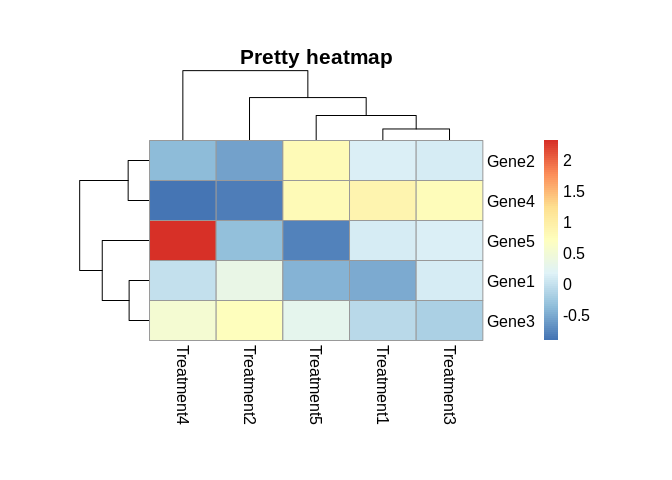
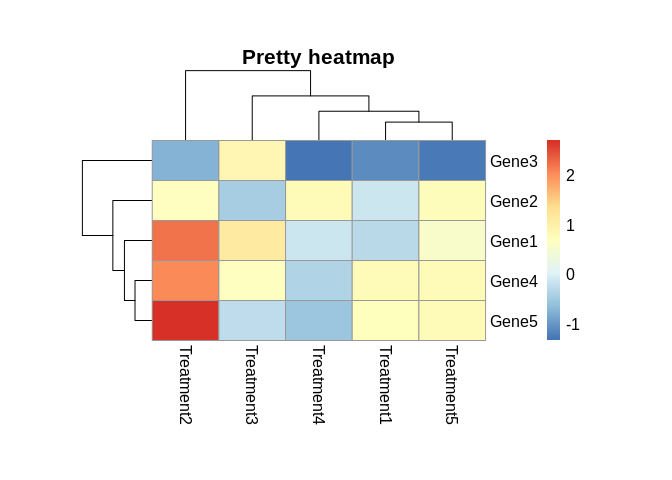
update titles for training listings

diff --git a/R/heatmaps/heatmaps_intermediate.md b/R/heatmaps/heatmaps_intermediate.md
@@ -1,6 +1,6 @@
-Heatmaps in R for intermediate users
+R data visualisation with RStudio: heatmaps
 ================
-2018-09-06
+2018-09-28
 
 > This document is edited as an R markdown file, and regularly exported as a GitHub document. The source code is [here](https://gitlab.com/stragu/CDS/blob/master/R/heatmaps_intermediate.Rmd) The published printer-friendly version is [here](https://gitlab.com/stragu/CDS/blob/master/R/heatmaps/heatmaps_intermediate.md)
 
@@ -140,9 +140,8 @@ For example, in the palette function `cm.colors(n)`, n is the number of levels (
 
 ``` r
 heatmap(mtcars_matrix,
-        col = cm.colors(15),
         scale = "column",
-        margins = c(8, 8))
+        col = cm.colors(n = 15))
 ```
 
 ![](heatmaps_intermediate_files/figure-markdown_github/unnamed-chunk-8-1.png)
@@ -155,8 +154,8 @@ Dendrograms don't really make sense for this dataset. `Rowv` and `Colv` can be s
 
 ``` r
 heatmap(mtcars_matrix,
-        col = cm.colors(100),
         scale = "column",
+        col = cm.colors(100),
         Rowv = NA,
         Colv = NA)
 ```
@@ -216,8 +215,7 @@ View(rawdata)
 It’s important to note that a lot of visualisations involve gathering and preparing data. Rarely do you get data exactly how you need it, so you should expect to do some data munging before producing the visuals.
 
 ``` r
-rawdata$Row_ID <- NULL
-rawdata$T.test <- NULL
+rawdata <- rawdata[ , 2:7] # remove superfluous columns
 colnames(rawdata) <- c(paste("Control", 1:3, sep = "_"), 
                        paste("Treatment", 1:3, sep = "_"))
 ```
@@ -355,7 +353,6 @@ How does `pheatmap` (which stands for "pretty heatmap") differ from other functi
 Create a data matrix from pseudo-random numbers:
 
 ``` r
-set.seed(100)
 d <- matrix(rnorm(25), 5, 5)
 colnames(d) <- paste0("Treatment", 1:5)
 rownames(d) <- paste0("Gene", 1:5)
@@ -418,15 +415,12 @@ Create a basic heatmap from the dataframe:
 
 ``` r
 ggplot(esoph_sub, aes(x = alcgp,
-                      y = tobgp)) +
-  geom_tile(aes(fill = ncases/(ncases+ncontrols)),
-            color = "white") +
+                      y = tobgp,
+                      fill = ncases / (ncases + ncontrols))) +
+  geom_tile(colour = "white") + # grid colour
   scale_fill_gradient(low = "white",
                       high = "steelblue") +
-  theme(legend.title = element_text(size = 10),
-        legend.text = element_text(size = 10),
-        axis.title = element_text(size=12),
-        axis.text.x = element_text(angle = 90, hjust = 1)) +
+  theme_minimal() +
   labs(fill = "Cancer freq.",
        x = "Alcohol consumption",
        y = "Tobacco consumption")

diff --git a/R/ggplot2_intermediate/ggplot2_intermediate.md b/R/ggplot2_intermediate/ggplot2_intermediate.md
@@ -1,6 +1,6 @@
-R visualisations using ggplot2 – intermediate
+R data visualisation with RStudio and ggplot2: intermediate
 ================
-2018-08-30
+2018-09-28
 
 > This document is written as an .Rmd document, and then knitted into a GitHub-flavoured markdown document. The source code is available at: <https://gitlab.com/stragu/CDS/blob/master/R/ggplot2_intermediate/ggplot2_intermediate.Rmd>
 > The published document is available at: <https://gitlab.com/stragu/CDS/blob/master/R/ggplot2_intermediate/ggplot2_intermediate.md>

diff --git a/R/dplyr/dplyr.md b/R/dplyr/dplyr.md
@@ -1,8 +1,8 @@
 ---
-Title: Introduction to R data manipulation using dplyr
+Title: R data manipulation with RStudio and dplyr: an introduction
 ---
 
-`last revision: 2018-08-16`
+`last revision: 2018-09-28`
 
 If you want to review the installation instructions: https://gitlab.com/stragu/CDS/blob/master/R/Installation.md
 

diff --git a/R/rstudio_intro/rstudio_intro.md b/R/rstudio_intro/rstudio_intro.md
@@ -1,7 +1,7 @@
-R for beginners using RStudio
+R with RStudio: getting started
 ===
 
-`version: 2018-09-13`
+`version: 2018-09-28`
 
 > These notes are available on GitHub: https://gitlab.com/stragu/CDS/blob/master/R/rstudio_intro/rstudio_intro.md
 

diff --git a/OpenRefine/openrefine.md b/OpenRefine/openrefine.md
@@ -1,4 +1,6 @@
-# Cleaning data with OpenRefine
+# OpenRefine: an introduction to dealing with messy data
+
+Last updated: 2018-09-28
 
 ## Legal
 

diff --git a/Shell/shell_intro.md b/Shell/shell_intro.md
@@ -1,4 +1,6 @@
-# Unix shell introduction
+# Unix Shell: an introduction
+
+Last updated: 2018-09-28
 
 ## Legal
 
